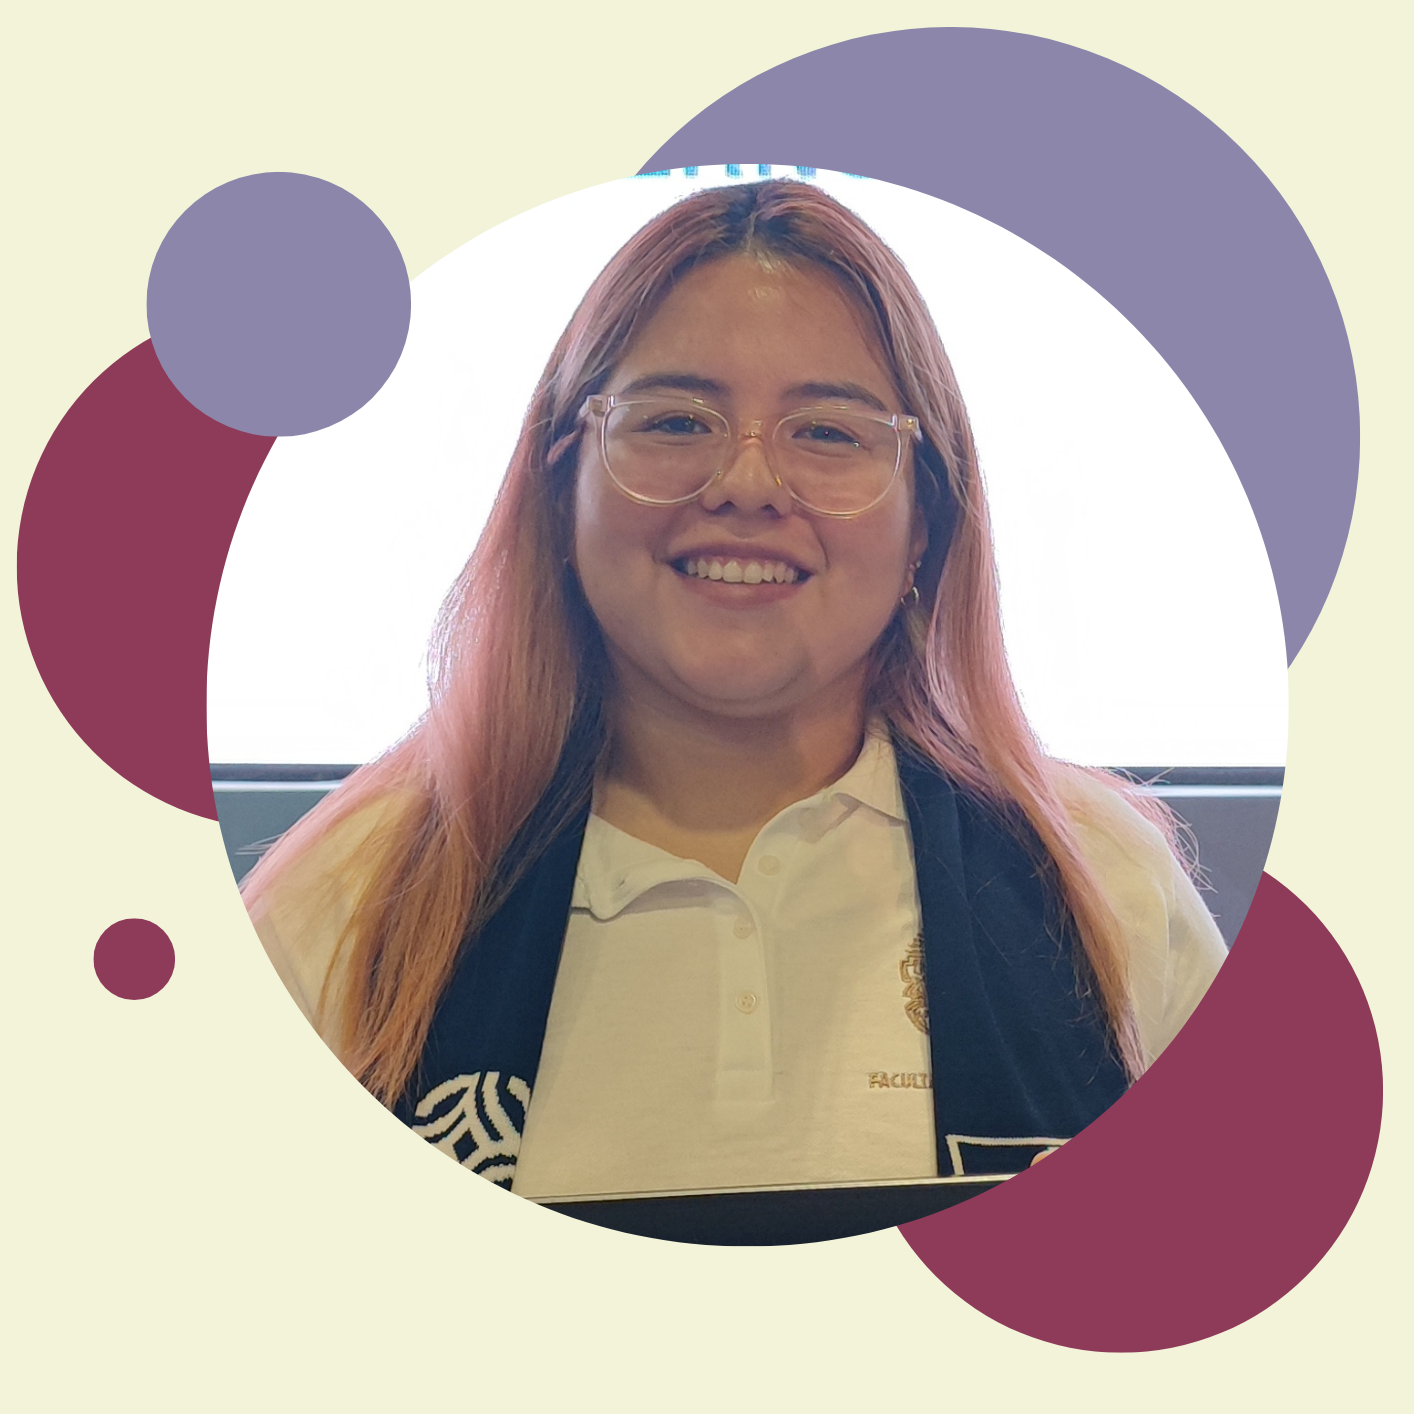
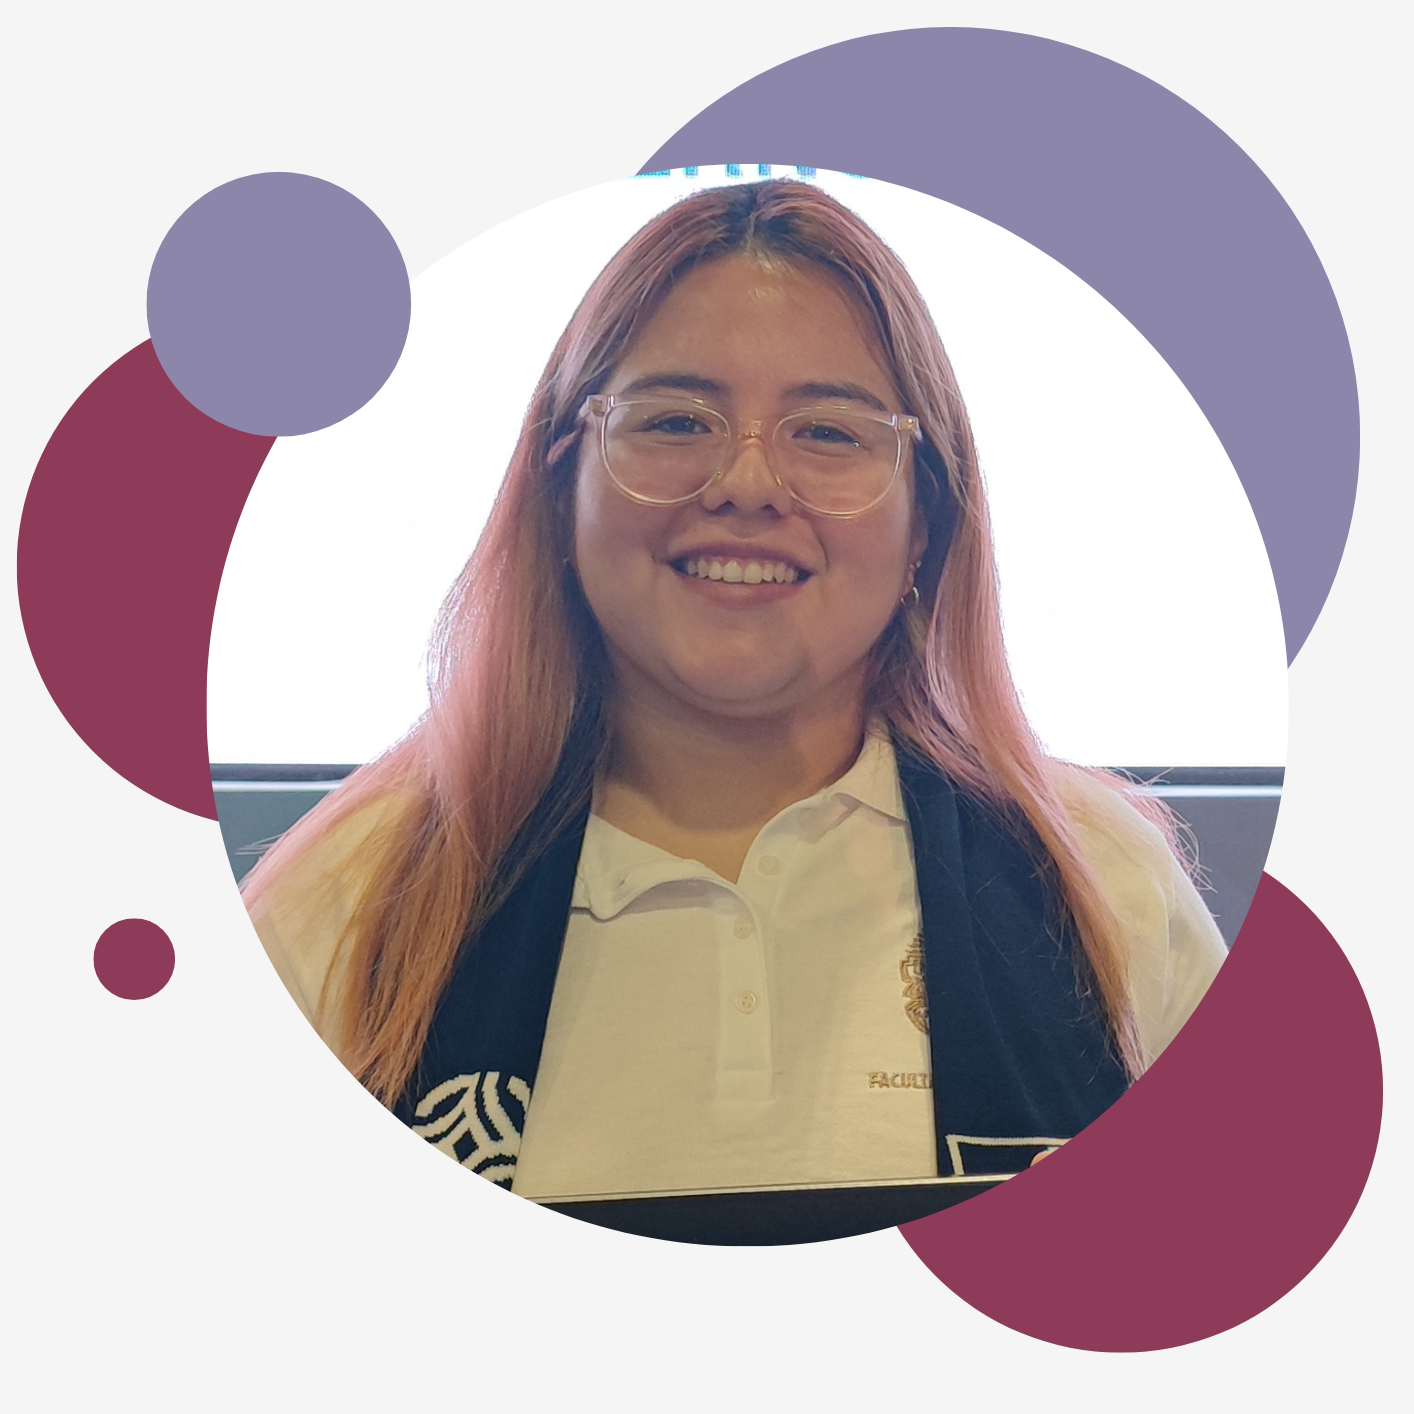
Nuevos cambios - CSS

diff --git a/index.html b/index.html
@@ -91,11 +91,11 @@
             <!-- Título de mi sección -->
             <h2 class="p-2 border border-color border-5 rounded fw-semibold">Habilidades</h2>
             <!-- Contenedor de cartas -->
-            <div class="row g-4 py-5 row-cols-2 row-cols-lg-3">
+            <div class="row g-4 px-4 py-5 row-cols-2 row-cols-lg-3">
 
                 <div class="feature col">
                     <div
-                        class="d-inline-flex align-items-center justify-content-center text-bg-light bg-gradient fs-2 py-2 px-3 rounded">
+                        class="d-inline-flex align-items-center justify-content-center text-bg-primary bg-gradient fs-2 py-2 px-3 rounded">
                         <i class="bi bi-code-square"></i>
                     </div>
                     <h3 class="fs-2 text-body-emphasis">Desarrollo Web</h3>
@@ -153,15 +153,13 @@
         <!-- Sección de proyectos -->
         <section id="proyectos" class="container px-4 py-5">
             <!-- Sección de proyectos -->
-            <h2 class="pb-2 border-bottom">Proyectos</h2>
+            <h2 class="p-2 border border-color border-5 rounded fw-semibold">Proyectos</h2>
 
             <div class="row row-cols-1 row-cols-lg-2 align-items-stretch g-4 py-5">
 
-
                 <div class="col">
                     <!-- Imagen de la carta -->
-                    <div id="proyecto-1"
-                        class="proyecto card card-cover h-100 overflow-hidden text-bg-dark rounded-4 shadow-lg">
+                    <div id="proyecto-1" class="proyecto card card-cover h-100 overflow-hidden rounded-4 shadow-lg">
 
                         <!-- Texto de la carta -->
                         <div class="d-flex flex-column h-100 p-5 pb-3 text-white text-shadow-1">
@@ -171,16 +169,18 @@
                 </div>
 
                 <div class="col">
-                    <div id="proyecto-2"
-                        class="proyecto card card-cover h-100 overflow-hidden text-bg-dark rounded-4 shadow-lg">
+                    <div id="proyecto-2" class="proyecto card card-cover h-100 overflow-hidden rounded-4 shadow-lg">
 
                         <div class="d-flex flex-column h-100 p-5 pb-3 text-white text-shadow-1">
                             <h3 class="pt-5 mt-5 mb-4 display-6 lh-1 fw-bold">Clon de google.</h3>
                             <ul class="d-flex list-unstyled mt-auto">
                                 <li class="d-flex align-items-center me-3">
-                                    <i class="bi bi-code-square"></i>
                                     <a href="https://github.com/romina-chan/clon-google-b7-g1" target="_blank"
-                                        class="ps-3">URL</a>
+                                        class="fs-2 nav-link d-inline-block">
+                                        <i class="bi bi-github"></i>
+                                    </a>
+                                    <a href="https://romina-clon-google.netlify.app/" target="_blank"
+                                        class="ps-3">Sitio Web</a>
                                 </li>
                             </ul>
                         </div>
@@ -192,8 +192,8 @@
         </section>
 
         <!-- Sección de testimonios -->
-        <section id="testimonios">
-            <h1 class="text-center my-5">Testimonios</h1>
+        <section id="testimonios" class="container px-4 py-5">
+            <h1 class="my-5 p-2 border border-color border-5 rounded fw-semibold">Testimonios</h1>
             <!-- Carrusel de testimonios -->
             <div id="myCarousel" class="carousel carousel-dark carousel-fade mb-6" data-bs-theme="dark"
                 data-bs-ride="carousel">
@@ -230,30 +230,27 @@
     </main>
 
     <!-- Footer -->
-    <footer id="contacto" class="bg-black py-3 mt-5" data-bs-theme="dark">
+    <footer id="contacto" class="py-3">
 
-        <p class="mt-5 text-white text-center texto-gigante">
-            <i class="bi bi-file-code-fill"></i>
+        <p class="px-4 py-5 text-center icono-grande">
+            <i class="bi bi-flower1"></i>
         </p>
 
-        <h4 class="text-white text-center my-5">"¿Qué sigue? Sientete libre de contactarme"</h4>
-        <ul class="nav justify-content-center border-bottom pb-3 mb-3">
-            <li class="nav-item fs-1">
-                <a href="https://github.com/romina-chan" target="_blank" class="nav-link px-5 text-body-secondary">
+        <div class="container d-flex justify-content-between align-items-center">
+            <h4>¡Conecta conmigo!</h4>
+            <div>
+                <a href="https://github.com/romina-chan" target="_blank" class="fs-2 nav-link d-inline-block">
                     <i class="bi bi-github"></i>
                 </a>
-            </li>
-            <li class="nav-item fs-1">
                 <a href="https://www.linkedin.com/in/rominachan2801/" target="_blank"
-                    class="nav-link px-5 text-body-secondary">
+                    class="fs-2 nav-link d-inline-block">
                     <i class="bi bi-linkedin"></i>
                 </a>
-            </li>
-        </ul>
+            </div>
+            <h4>2024 © Romina Chan</h4>
+        </div>
 
 
-
-        <p class="text-center text-light">© 2024 Romina Chan, TECHNOLOCHICAS PRO</p>
     </footer>
     <!-- Hoja de JS, extraída de Bootstrap -->
     <script src="https://cdn.jsdelivr.net/npm/bootstrap@5.3.3/dist/js/bootstrap.bundle.min.js"

diff --git a/style.css b/style.css
@@ -3,9 +3,8 @@
     background-color: rgb(140, 134, 170);
 }
 
-/* Presentación */
-#presentacion {
-    background-color: rgb(242, 243, 217);
+main {
+    background-color: rgb(245, 245, 245);
 }
 
 .btn-primary {
@@ -23,14 +22,25 @@
     border-color: rgb(140, 134, 170);
 }
 
-/* Habilidades */
+/* Sección de habilidades */
+
 .border-color {
-    color: rgb(3, 0, 39);
+    border-color: rgb(140, 134, 170) !important;
+}
+
+.feature .bi {
+    color: rgb(245, 245, 245);
+}
+
+/* Sobrescribir el fondo de text-bg-primary */
+.d-inline-flex.text-bg-primary {
+    background-color: rgb(142, 58, 89) !important;
 }
 
 /* Sección de proyectos */
 
 .proyecto {
+    background-color: rgb(245, 245, 245);
     background-size: contain;
     background-repeat: no-repeat;
     background-position: center;
@@ -49,19 +59,10 @@
 }
 
 /* Footer */
-.texto-gigante {
+#contacto {
+    background-color: rgb(140, 134, 170);
+}
+
+.icono-grande {
     font-size: 80px;
-}
-
-
-/* Scroll */
-#navbar {
-    transition: background-color 0.5s;
-}
-
-.navbar-scrolled {
-    background-color: rgba(255, 255, 255, 0.8);
-    /* Fondo semi-transparente */
-    box-shadow: 0px 2px 4px rgba(0, 0, 0, 0.1);
-    /* Sombra sutil */
 }

diff --git a/script.js b/script.js
@@ -15,4 +15,7 @@
     .deleteAll()
     .typeString('Desarrolladora Frontend Jr.')
     .pauseFor(800)
+    .deleteAll()
+    .typeString('Ingeniera en Energías Renovables')
+    .pauseFor(800)
     .start();
